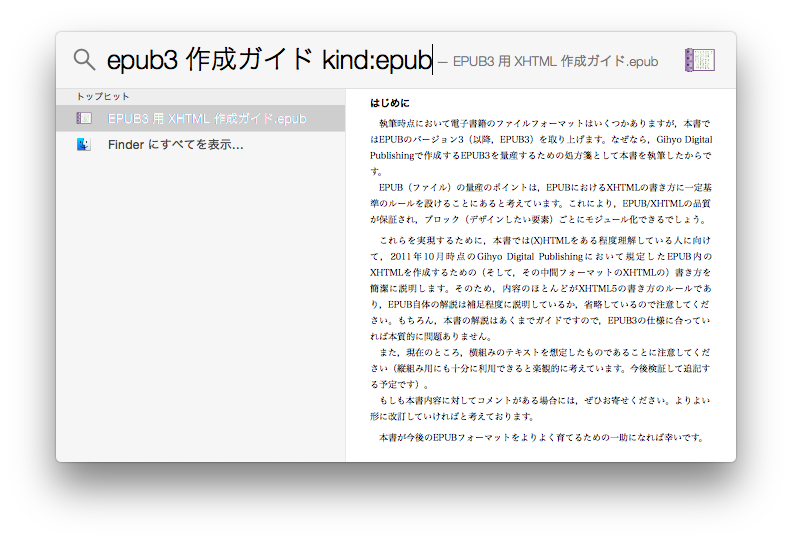
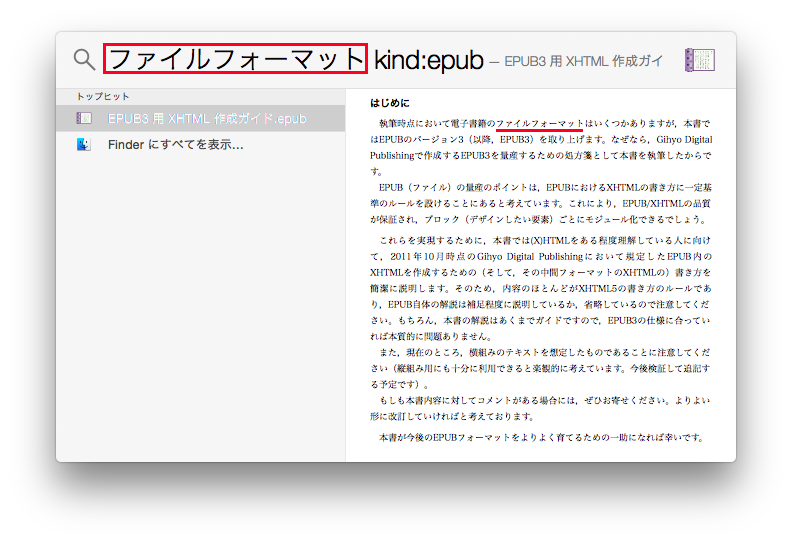
fix pot '2015-04-04-os-x-spotlight-and-quick-look-plugins-for-epub'

Changed region(s): [[0.1212, 0.059, 0.8485, 0.1476], [0.6364, 0.2362, 0.7273, 0.2657]]

diff --git a/_posts/2015-04-04-os-x-spotlight-and-quick-look-plugins-for-epub.md b/_posts/2015-04-04-os-x-spotlight-and-quick-look-plugins-for-epub.md
@@ -56,9 +56,11 @@ $ qlmanage -r
 
 ![](/blog/img/20150404/quick-look.png)
 
-　Spotlight検索からのプレヴューは以下のような感じ（EPUBだけを対象にしたい場合は、以下の画像のように`kind:epub`とするとよい）。
+　Spotlight検索からのQuick Lookプレヴューは以下のような感じ。Spotlight検索でEPUBだけを対象にしたい場合は、以下の画像のように`kind:epub`という条件を加えると良い。
 
 ![](/blog/img/20150404/spotlight.png)
+
+　赤線による強調は画像処理による。画像のようにEPUB内の単語でSpotlight検索できていることが解る。
 
 ### `style`要素の`scoped`属性
 
